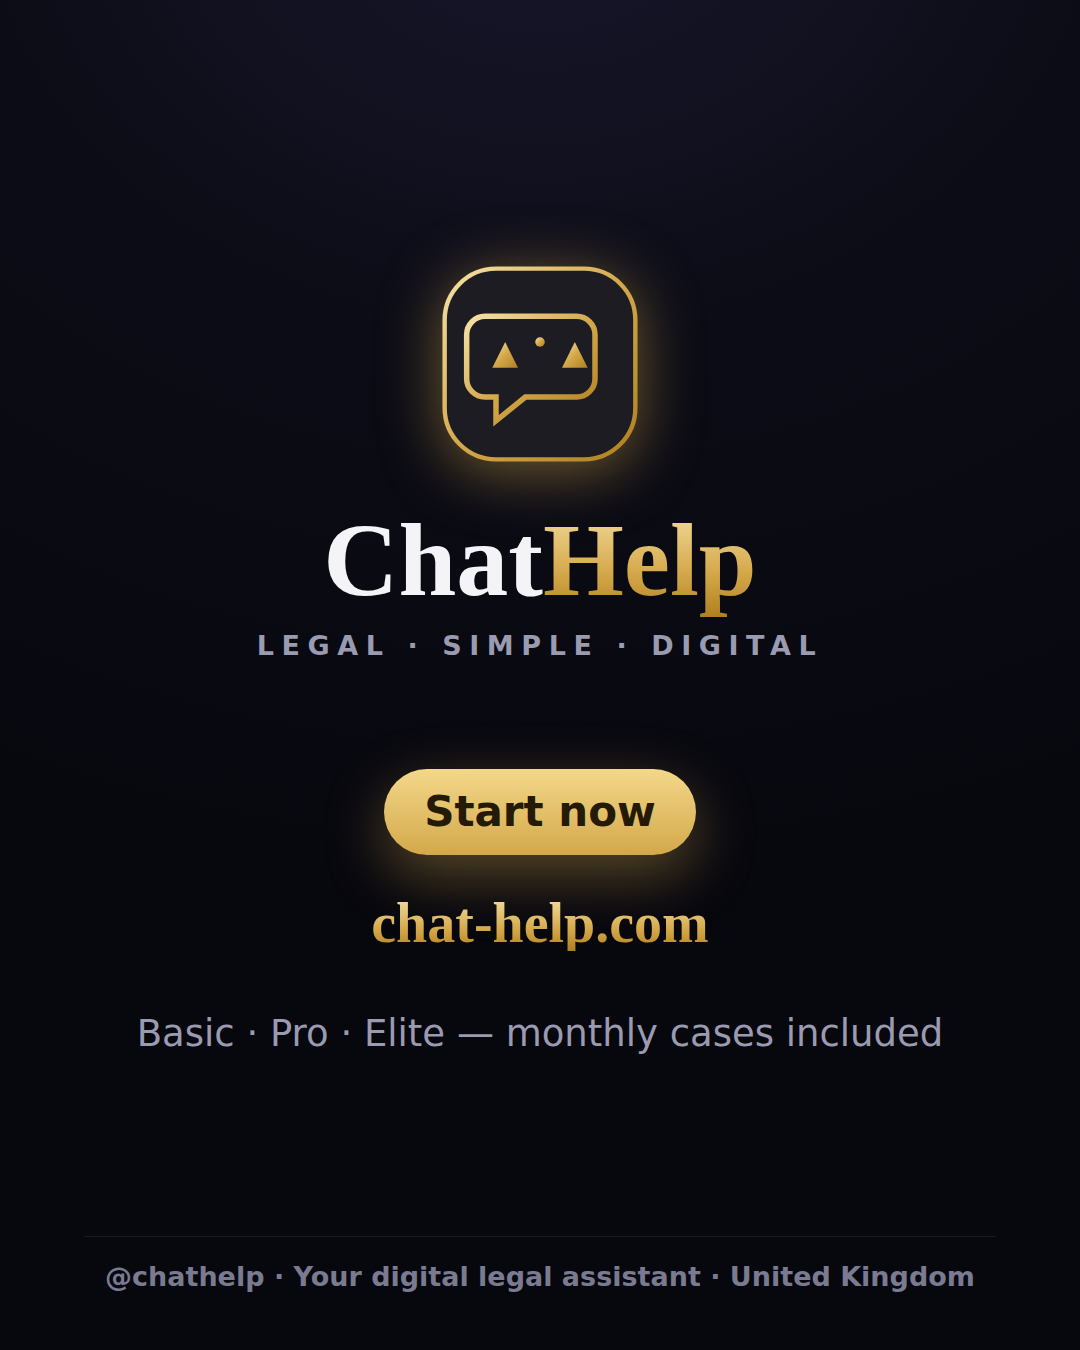
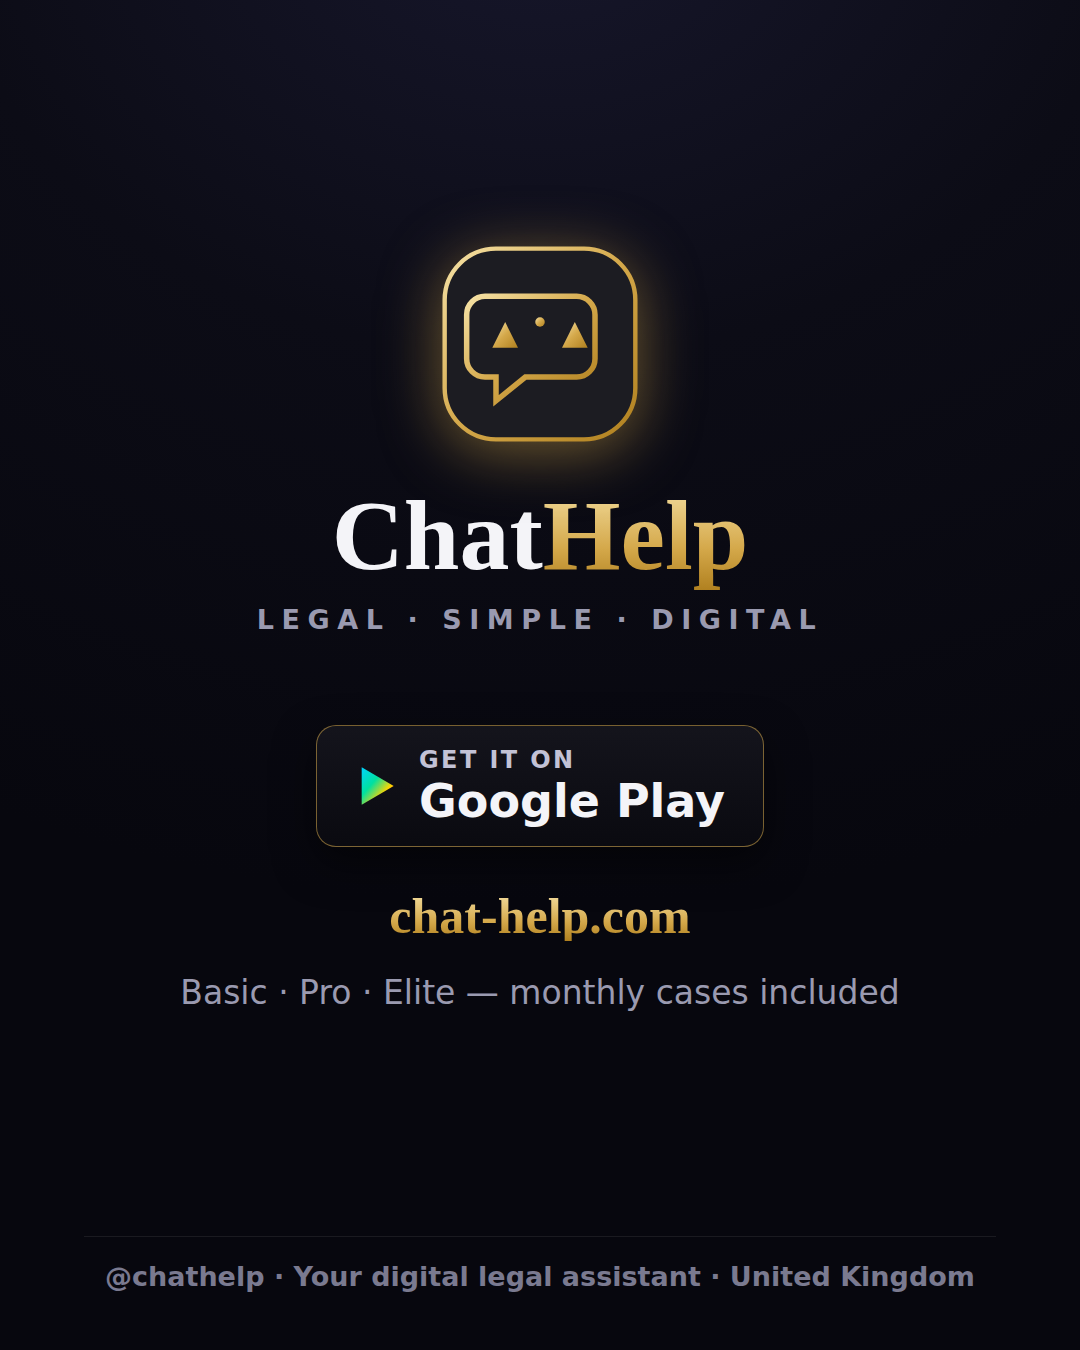
Add Google Play CTA to carousels + reel outro
- German & UK carousel CTA slides now show a 'Get it on Google Play' badge
  linking users to the app, alongside chat-help.com.
- Reel outro (scene.html): swap the 'Jetzt starten' pill for the Play badge.

Claude-Session: https://claude.ai/code/session_01QV6wX8DoQy1Ckqv9vL3mvt

diff --git a/marketing/instagram/scene.html b/marketing/instagram/scene.html
@@ -128,6 +128,11 @@
   .pill{display:inline-flex;align-items:center;gap:14px;padding:20px 34px;border-radius:999px;
     background:linear-gradient(180deg,var(--gold1),var(--gold2));color:#241a06;font:800 40px/1 var(--sans);
     box-shadow:0 20px 60px rgba(212,168,74,.45)}
+  .gpbadge{display:inline-flex;align-items:center;gap:18px;padding:22px 40px;border-radius:20px;
+    background:linear-gradient(180deg,#14141c,#0a0a10);border:1.6px solid rgba(212,168,74,.6)}
+  .gpbadge .gptxt{display:flex;flex-direction:column;gap:6px;text-align:left}
+  .gpbadge .gptxt small{font:600 25px/1 var(--sans);letter-spacing:.1em;text-transform:uppercase;color:#c2c2d6}
+  .gpbadge .gptxt b{font:700 48px/1 var(--sans);color:#F4F4F8}
   .url{font:700 44px/1 var(--sans);letter-spacing:.02em}
   .tag{font:600 28px/1 var(--sans);letter-spacing:.3em;text-transform:uppercase;color:var(--mute)}
   .progressbar{position:absolute;left:60px;right:60px;bottom:54px;height:8px;border-radius:6px;background:rgba(255,255,255,.08);z-index:20}
@@ -342,9 +347,12 @@
       <div style="font:700 118px/1 var(--serif)">Chat<span class="goldgrad">Help</span></div>
       <div class="tag" style="margin-top:24px">Recht · Einfach · Digital</div>
     </div>
-    <div class="center" id="s5cta" style="top:1180px">
-      <div class="pill">Jetzt starten</div>
-      <div class="url goldgrad" style="margin-top:40px">chat-help.com</div>
+    <div class="center" id="s5cta" style="top:1150px">
+      <div class="gpbadge">
+        <svg width="48" height="54" viewBox="0 0 24 24"><defs><linearGradient id="gpc" x1="0" y1="0" x2="1" y2="1"><stop offset="0" stop-color="#00D3FF"/><stop offset=".38" stop-color="#00E0A0"/><stop offset=".7" stop-color="#FFD400"/><stop offset="1" stop-color="#FF3B3B"/></linearGradient></defs><path d="M3.5 2.2 L3.5 21.8 L20.2 12 Z" fill="url(#gpc)"/></svg>
+        <span class="gptxt"><small>Jetzt bei</small><b>Google Play</b></span>
+      </div>
+      <div class="url goldgrad" style="margin-top:44px">chat-help.com</div>
     </div>
     <div class="center" id="s5plans" style="top:1500px;font:600 30px/1.6 var(--sans);color:var(--mute)">
       Basic · Pro · Elite &nbsp;—&nbsp; monatliche Fälle inklusive
@@ -606,8 +614,8 @@ function renderFrame(t){
    set(S('s5wm'),seg(t,41100,42100),lerp(26,0,eo(seg(t,41100,42100))),1);
    set(S('s5cta'),seg(t,41700,42600),lerp(22,0,eo(seg(t,41700,42600))),1);
    set(S('s5plans'),seg(t,42300,43200),lerp(18,0,eo(seg(t,42300,43200))),1);
-   const pill=S('s5cta').querySelector('.pill');
-   if(pill){const pl=0.5+0.5*Math.sin(t*0.006);pill.style.boxShadow=`0 20px ${(50+18*pl)}px rgba(212,168,74,${0.35+0.2*pl})`;}
+   const gp=S('s5cta').querySelector('.gpbadge');
+   if(gp){const pl=0.5+0.5*Math.sin(t*0.006);gp.style.boxShadow=`0 16px ${(44+18*pl)}px rgba(212,168,74,${0.24+0.18*pl})`;}
   }
 }
 window.renderFrame=renderFrame;

diff --git a/marketing/instagram/carousel.html b/marketing/instagram/carousel.html
@@ -80,6 +80,11 @@
   .vt{font:700 40px/1.05 var(--sans);display:flex;align-items:center;gap:14px}
   .vd{font:400 26px/1.3 var(--sans);color:var(--mute);margin-top:6px}
   .vbadge{font:700 21px/1 var(--sans);color:#241a06;background:linear-gradient(180deg,var(--gold1),var(--gold2));padding:7px 13px;border-radius:999px}
+  .gpbadge{display:inline-flex;align-items:center;gap:18px;padding:22px 38px;border-radius:20px;
+    background:linear-gradient(180deg,#14141c,#0a0a10);border:1.6px solid rgba(212,168,74,.55);box-shadow:0 16px 40px rgba(0,0,0,.5)}
+  .gpbadge .gptxt{display:flex;flex-direction:column;gap:6px;text-align:left}
+  .gpbadge .gptxt small{font:600 24px/1 var(--sans);letter-spacing:.1em;text-transform:uppercase;color:#c2c2d6}
+  .gpbadge .gptxt b{font:700 46px/1 var(--sans);color:#F4F4F8}
 </style>
 <body>
 
@@ -216,15 +221,18 @@
 
 <!-- 8 CTA -->
 <div class="slide"><div class="pad">
-  <div class="center" style="margin-top:170px">
+  <div class="center" style="margin-top:150px">
     <div id="c7emb"></div>
-    <div class="wm" style="--wm:104px;margin-top:34px">Chat<span class="g">Help</span></div>
+    <div class="wm" style="--wm:100px;margin-top:32px">Chat<span class="g">Help</span></div>
     <div class="tag" style="margin-top:20px;text-transform:none">RECHT · EINFACH · DIGITAL</div>
   </div>
-  <div class="center" style="margin-top:110px">
-    <span class="pill">Jetzt starten</span>
-    <div class="wm g" style="--wm:56px;margin-top:40px">chat-help.com</div>
-    <div class="lead" style="margin-top:56px">Basic · Pro · Elite — monatliche Fälle inklusive</div>
+  <div class="center" style="margin-top:92px">
+    <div class="gpbadge">
+      <svg width="46" height="52" viewBox="0 0 24 24"><defs><linearGradient id="gpc" x1="0" y1="0" x2="1" y2="1"><stop offset="0" stop-color="#00D3FF"/><stop offset=".38" stop-color="#00E0A0"/><stop offset=".7" stop-color="#FFD400"/><stop offset="1" stop-color="#FF3B3B"/></linearGradient></defs><path d="M3.5 2.2 L3.5 21.8 L20.2 12 Z" fill="url(#gpc)"/></svg>
+      <span class="gptxt"><small>Jetzt bei</small><b>Google Play</b></span>
+    </div>
+    <div class="wm g" style="--wm:50px;margin-top:44px">chat-help.com</div>
+    <div class="lead" style="margin-top:28px;font-size:33px">Basic · Pro · Elite — monatliche Fälle inklusive</div>
   </div>
   <div class="foot" style="justify-content:center"><span>@chathelp · Ihr digitaler Rechtsassistent · Deutschland</span></div>
 </div></div>

diff --git a/marketing/instagram/carousel-en.html b/marketing/instagram/carousel-en.html
@@ -78,6 +78,11 @@
   .vt{font:700 40px/1.05 var(--sans);display:flex;align-items:center;gap:14px}
   .vd{font:400 26px/1.3 var(--sans);color:var(--mute);margin-top:6px}
   .vbadge{font:700 21px/1 var(--sans);color:#241a06;background:linear-gradient(180deg,var(--gold1),var(--gold2));padding:7px 13px;border-radius:999px}
+  .gpbadge{display:inline-flex;align-items:center;gap:18px;padding:22px 38px;border-radius:20px;
+    background:linear-gradient(180deg,#14141c,#0a0a10);border:1.6px solid rgba(212,168,74,.55);box-shadow:0 16px 40px rgba(0,0,0,.5)}
+  .gpbadge .gptxt{display:flex;flex-direction:column;gap:6px;text-align:left}
+  .gpbadge .gptxt small{font:600 24px/1 var(--sans);letter-spacing:.1em;text-transform:uppercase;color:#c2c2d6}
+  .gpbadge .gptxt b{font:700 46px/1 var(--sans);color:#F4F4F8}
 </style>
 <body>
 
@@ -215,15 +220,18 @@
 
 <!-- 8 CTA -->
 <div class="slide"><div class="pad">
-  <div class="center" style="margin-top:170px">
+  <div class="center" style="margin-top:150px">
     <div id="c7emb"></div>
-    <div class="wm" style="--wm:104px;margin-top:34px">Chat<span class="g">Help</span></div>
+    <div class="wm" style="--wm:100px;margin-top:32px">Chat<span class="g">Help</span></div>
     <div class="tag" style="margin-top:20px">Legal · Simple · Digital</div>
   </div>
-  <div class="center" style="margin-top:110px">
-    <span class="pill">Start now</span>
-    <div class="wm g" style="--wm:56px;margin-top:40px">chat-help.com</div>
-    <div class="lead" style="margin-top:56px">Basic · Pro · Elite — monthly cases included</div>
+  <div class="center" style="margin-top:92px">
+    <div class="gpbadge">
+      <svg width="46" height="52" viewBox="0 0 24 24"><defs><linearGradient id="gpc" x1="0" y1="0" x2="1" y2="1"><stop offset="0" stop-color="#00D3FF"/><stop offset=".38" stop-color="#00E0A0"/><stop offset=".7" stop-color="#FFD400"/><stop offset="1" stop-color="#FF3B3B"/></linearGradient></defs><path d="M3.5 2.2 L3.5 21.8 L20.2 12 Z" fill="url(#gpc)"/></svg>
+      <span class="gptxt"><small>Get it on</small><b>Google Play</b></span>
+    </div>
+    <div class="wm g" style="--wm:50px;margin-top:44px">chat-help.com</div>
+    <div class="lead" style="margin-top:28px;font-size:33px">Basic · Pro · Elite — monthly cases included</div>
   </div>
   <div class="foot" style="justify-content:center"><span>@chathelp · Your digital legal assistant · United Kingdom</span></div>
 </div></div>
